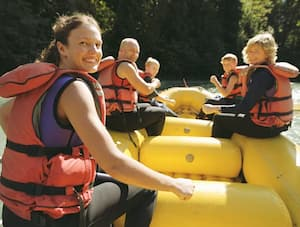
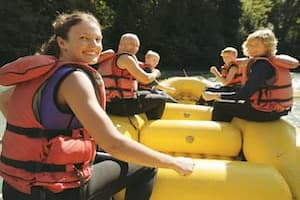
image resizing content recreation for week4 about us page

diff --git a/wwr/about.html b/wwr/about.html
@@ -9,8 +9,9 @@
     <meta name="author" content="Babatunde John Ogunleye">
     <link rel="preconnect" href="https://fonts.googleapis.com">
     <link rel="preconnect" href="https://fonts.gstatic.com" crossorigin>
-    <link href="https://fonts.googleapis.com/css2?family=Anton&family=Roboto:ital,wght@0,400;1,700&display=swap" rel="stylesheet">
-    
+    <link href="https://fonts.googleapis.com/css2?family=Anton&family=Roboto:ital,wght@0,400;1,700&display=swap"
+        rel="stylesheet">
+
     <link rel="stylesheet" href="styles/rafting.css">
 </head>
 
@@ -31,21 +32,30 @@
             <h1>The Rapid Splash</h1>
             <article>
                 <img src="images/happyclient.jpg" alt="Happy client">
-                <p>Lorem ipsum dolor sit amet consectetur adipisicing elit. Eos vero minus, iste voluptatibus corrupti
-                    quibusdam maiores eaque,
-                    beatae numquam accusamus consequuntur. Voluptatum iusto nulla ab veniam labore doloremque beatae
-                    incidunt.</p>
+                <p>"Ride the Rapids. Feel Alive."
+                    Experience the thrill, beauty, and rush of white-water rafting with Rapid Splash — where
+                    every splash is an adventure worth remembering.</p>
             </article>
         </div>
         <section class="history">
             <h2>History</h2>
-            <p>Lorem ipsum dolor sit amet consectetur adipisicing elit. Error voluptatibus delectus perferendis minima
-                eaque quasi aspernatur dolores amet quas.
-                Modi quam impedit a sint pariatur fugiat deleniti commodi nisi voluptate?</p>
+            <p>At Rapid Splash, we do not just take you down the river — we take you on an unforgettable journey where
+                adrenaline meets nature’s raw beauty. Our white-water rafting adventures are designed for
+                thrill-seekers, nature lovers, and anyone ready to trade the ordinary for the extraordinary. With
+                crystal-clear waters rushing beneath you, towering cliffs at your side, and the roar of the rapids in
+                your ears, every trip becomes more than a ride — it is a story you will tell for a lifetime.
+
+                Backed by certified guides, top-tier safety gear, and a passion for creating moments that spark joy and
+                connection, we ensure every adventure is as safe as it is exhilarating. Whether you are paddling through
+                heart-pounding rapids or drifting through calm, scenic stretches, you wll experience the perfect blend
+                of
+                excitement, teamwork, and breathtaking views.</p>
             <img src="images/rafting22_600.jpg" alt="Rafting boat">
-            <p>Lorem, ipsum dolor sit amet consectetur adipisicing elit. Consequatur sapiente, ut recusandae debitis
-                esse quos quis fugiat maxime saepe? Placeat soluta tenetur exercitationem ad molestiae temporibus
-                ducimus harum inventore vitae.</p>
+            <p>Born from a passion for adventure and a love for untamed rivers, Rapid Splash began with a single
+                raft, a fearless crew, and a dream to share nature’s most exhilarating playground with the world. What
+                started as weekend runs on local rapids quickly grew into a premier rafting experience, drawing
+                thrill-seekers from near and far to conquer roaring waters and create unforgettable memories together.
+            </p>
         </section>
         <section class="adventures">
             <h2>Adventure Awaits You!</h2>
